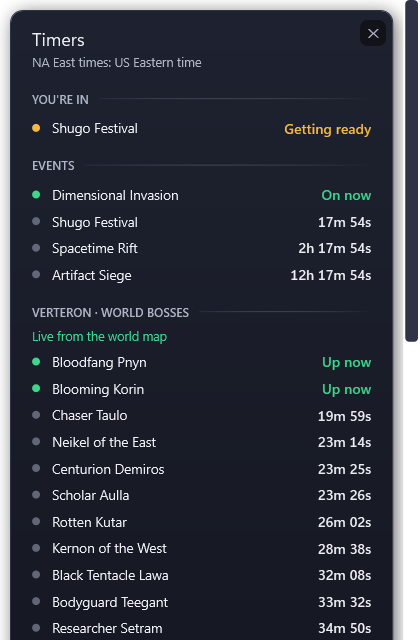
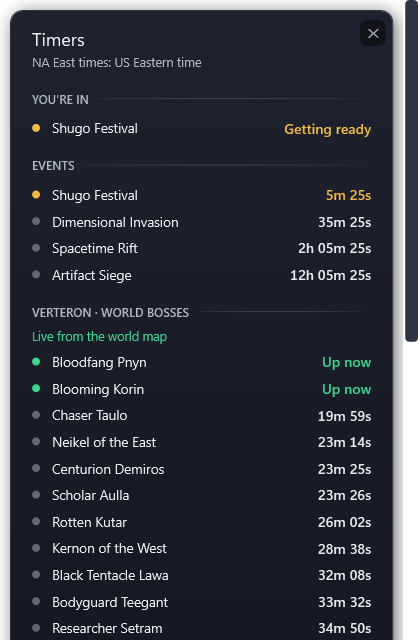
Tracker: one zone table for every timer; unchecked regions on their own local time; the Artifact Bosses Thursday and Saturday
AbyssBosses.ZoneFor reads EventTimers.ClockOf. NA East stays US Eastern (checked); NA West
US Pacific, Europe Paris, Latin America Brasília and Asia Korea are local-time guesses with
daylight saving, marked not checked. The Spacetime Rift runs from 02:00 in every region. The
three Artifact Bosses (Executor Kaira, Argo, Tamasa) are Thursday and Saturday since the Nov 4
patch, as it names them; Middle Reshanta's, which it doesn't name, stay Mon, Thu and Sat.

diff --git a/tracker/KinahLedger.Tracker/Session/EventTimers.cs b/tracker/KinahLedger.Tracker/Session/EventTimers.cs
@@ -34,25 +34,26 @@ public sealed class EventTimers
     /// </summary>
     public sealed record RegionClock(string Region, string Name, TimeZoneInfo Zone, bool Checked, string Note);
 
-    /// <summary>MetaBot's reading for every region (not checked in the game): one clock at UTC+9, no daylight saving.</summary>
+    /// <summary>The last resort when Windows has none of a region's zones: MetaBot's reading, UTC+9 with no daylight saving.</summary>
     static readonly TimeZoneInfo Utc9 = TimeZoneInfo.CreateCustomTimeZone("UTC+9", TimeSpan.FromHours(9), "UTC+9", "UTC+9");
 
     /// <summary>
     /// The clock of a region (Settings.Region: "na_e", "na_w", "eu", "latam", "asia"). NA East is US Eastern, checked
     /// 2026-11-14: the Abyss server's own next-siege time (Sat 21:00 ET), the chat's "A Spacetime Rift has appeared" at 11:00,
     /// 14:00 and 17:00 ET on 2026-11-13, and the field bosses on Steven's Lower Reshanta map (Watcher Kaira every 3 h from
-    /// 01:00 ET). The other regions are not checked: UTC+9, as before (Europe is likely Central
-    /// European time, but no reading tells it apart yet).
+    /// 01:00 ET). The other regions are not checked: each is taken as its own local time with its daylight saving (the
+    /// command center's call, 2026-11-14; Exitlag and PlayNews give the Rift at 02:00, 05:00 ... Paris time), marked so on the
+    /// card until a timer there is checked. The one table for every timer: the Abyss bosses (AbyssBosses.ZoneFor) read it too.
     /// </summary>
     public static RegionClock ClockOf(string? region) => region switch
     {
         // no region yet: NA East, Settings.Region's default
         null or "" or "na_e" => new("na_e", "NA East", Zone("Eastern Standard Time", "America/New_York") ?? Utc9, true, "US Eastern time"),
-        "na_w" => new("na_w", "NA West", Utc9, false, "UTC+9, not checked for NA West yet"),
-        "eu" => new("eu", "Europe", Utc9, false, "UTC+9, not checked for Europe yet"),
-        "latam" => new("latam", "Latin America", Utc9, false, "UTC+9, not checked for Latin America yet"),
-        "asia" => new("asia", "Asia", Utc9, false, "UTC+9, not checked for Asia yet"),
-        _ => new(region ?? "", "this region", Utc9, false, "UTC+9, not checked yet"),
+        "na_w" => new("na_w", "NA West", Zone("Pacific Standard Time", "America/Los_Angeles") ?? Utc9, false, "US Pacific time, not checked for NA West yet"),
+        "eu" => new("eu", "Europe", Zone("Romance Standard Time", "Europe/Paris") ?? Utc9, false, "Central European time, not checked for Europe yet"),
+        "latam" => new("latam", "Latin America", Zone("E. South America Standard Time", "America/Sao_Paulo") ?? Utc9, false, "Brasília time, not checked for Latin America yet"),
+        "asia" => new("asia", "Asia", Zone("Korea Standard Time", "Asia/Seoul") ?? Utc9, false, "Korea time, not checked for Asia yet"),
+        _ => new(region, "this region", Zone("Eastern Standard Time", "America/New_York") ?? Utc9, false, "US Eastern time, not checked for this region"),
     };
 
     static TimeZoneInfo? Zone(params string[] ids)
@@ -68,7 +69,7 @@ public sealed class EventTimers
     /// <summary>
     /// A recurring event in the region's wall-clock time: every <paramref name="EveryMinutes"/> from <paramref name="AtMinutes"/>
     /// past midnight, or once a day at <paramref name="AtMinutes"/> on <paramref name="Weekdays"/> (0 Sunday). OnMinutes: how
-    /// long it counts as on after its start. AtIn: a region whose first start of the day differs (NA East's Rift, 02:00).
+    /// long it counts as on after its start. AtIn: a region whose first start of the day differs (none since the Rift's 02:00 holds everywhere).
     /// </summary>
     public sealed record Recurring(string Name, string Every, int EveryMinutes, int AtMinutes, int[]? Weekdays, int OnMinutes, string Where, IReadOnlyDictionary<string, int>? AtIn = null)
     {
@@ -79,15 +80,15 @@ public sealed class EventTimers
     /// The schedule, as kinah-ledger-site data/events.json has it ("recurring"; keep the two in step). How long each counts as
     /// on: the Shugo Festival's rounds were over by :05 in the game's own messages (2026-11-13, 17:01 and 18:01); the
     /// Dimensional Invasion is a 3-minute lobby and up to 10 minutes of waves; the Artifact Siege a 10-minute warning, then the
-    /// cores; the Spacetime Rift's portal is given 10 minutes. The Rift in NA East: every 3 hours from 02:00 Eastern (the chat's
-    /// "A Spacetime Rift has appeared" at 11:00, 14:00, 17:00 ET on 2026-11-13; the same grid in summer time as aion2-data's
-    /// 00:00 UTC anchor of 2026-10-07), not from 00:00.
+    /// cores; the Spacetime Rift's portal is given 10 minutes. The Rift: every 3 hours from 02:00 local (NA East: the chat's
+    /// "A Spacetime Rift has appeared" at 11:00, 14:00, 17:00 ET on 2026-11-13, and aion2-data's 00:00 UTC anchor of
+    /// 2026-10-07 in summer time; Paris: PlayNews and Exitlag's 02:00, 05:00 ...), not from 00:00 as MetaBot has it.
     /// </summary>
     public static readonly Recurring[] Schedule =
     {
         new("Shugo Festival", "Every hour", 60, 0, null, 6, "Verteron and Altgard"),
         new("Dimensional Invasion", "Every hour at half past", 60, 30, null, 13, "Verteron and Altgard"),
-        new("Spacetime Rift", "Every 3 hours", 180, 0, null, 10, "One of ten zones", new Dictionary<string, int> { ["na_e"] = 120 }),
+        new("Spacetime Rift", "Every 3 hours", 180, 120, null, 10, "One of ten zones"),
         new("Artifact Siege", "Thu and Sat", 1440, 21 * 60, new[] { 4, 6 }, 20, "Chaotic Lower Reshanta"),   // twice a week since the Nov 4 patch
     };
 

diff --git a/tracker/KinahLedger.Tracker/Session/AbyssBosses.cs b/tracker/KinahLedger.Tracker/Session/AbyssBosses.cs
@@ -7,7 +7,8 @@ namespace KinahLedger.Session;
 ///
 /// The schedule's hours are the region's own wall clock. Steven's map of Chaotic Lower Reshanta on NA East (2026-11-14,
 /// 06:38 Eastern) matched it to the second: Watcher Kaira every 3 hours from 01:00 (21min 20s left, so 07:00), the three
-/// Executors Mon, Thu and Sat at 21:30 (14h 51min 20s), Guardian Lord Nahma, three spots, Sun and Fri at 21:00
+/// Executors at 21:30 (14h 51min 20s; the three Artifact Bosses are Thursday and Saturday since the Nov 4 patch, as the
+/// site has them; that Saturday reading fits Mon/Thu/Sat too, Monday 16 Nov settles it), Guardian Lord Nahma, three spots, Sun and Fri at 21:00
 /// (1d 14h 21min). NA East's clock is checked; the other regions' are taken as their own time zone until someone checks.
 /// Middle Reshanta's bosses are on the same schedule as MetaBot gives it, not checked on the map yet.
 /// </summary>
@@ -21,15 +22,18 @@ public static class AbyssBosses
     public sealed record Boss(string Name, string Place, string Map, string Every, int EveryMinutes, int AtMinutes, int[]? Weekdays, int Spots, bool Checked);
 
     public const string Lower = "Lower Reshanta", Middle = "Middle Reshanta";
-    static readonly int[] MonThuSat = { 1, 4, 6 }, SunFri = { 0, 5 };
+    // the three Artifact Bosses: Thursday and Saturday since the Nov 4 patch ("the schedules for the three Artifact Bosses
+    // (Executor Kaira, Executor Argo, and Executor Tamasa) will also be changed to twice a week"); Middle Reshanta's not named
+    // there, so still Monday, Thursday and Saturday (MetaBot and the site agree)
+    static readonly int[] ThuSat = { 4, 6 }, MonThuSat = { 1, 4, 6 }, SunFri = { 0, 5 };
 
     public static readonly Boss[] Schedule =
     {
         new("Watcher Kaira", "Black Fragments Area", Lower, "Every 3 hours", 180, 60, null, 1, true),
         new("Guardian Lord Nahma", "Reshanta's Root", Lower, "Sun and Fri", 1440, 21 * 60, SunFri, 3, true),
-        new("Executor Tamasa", "Reshanta's Root", Lower, "Mon, Thu and Sat", 1440, 21 * 60 + 30, MonThuSat, 1, true),
-        new("Executor Argo", "Siel's Heart", Lower, "Mon, Thu and Sat", 1440, 21 * 60 + 30, MonThuSat, 1, true),
-        new("Executor Kaira", "Branding Island", Lower, "Mon, Thu and Sat", 1440, 21 * 60 + 30, MonThuSat, 1, true),
+        new("Executor Tamasa", "Reshanta's Root", Lower, "Thu and Sat", 1440, 21 * 60 + 30, ThuSat, 1, true),
+        new("Executor Argo", "Siel's Heart", Lower, "Thu and Sat", 1440, 21 * 60 + 30, ThuSat, 1, true),
+        new("Executor Kaira", "Branding Island", Lower, "Thu and Sat", 1440, 21 * 60 + 30, ThuSat, 1, true),
         new("Enraged Guardian Lord Nahma", "Steel Titan's Grave", Middle, "Sun and Fri", 1440, 21 * 60, SunFri, 1, false),
         new("Executioner Dramos", "Corroded Heart", Middle, "Mon, Thu and Sat", 1440, 21 * 60 + 30, MonThuSat, 1, false),
         new("Turncoat Ducal", "Eroded Fragment Area", Middle, "Mon, Thu and Sat", 1440, 21 * 60 + 30, MonThuSat, 1, false),
@@ -39,21 +43,11 @@ public static class AbyssBosses
     /// <summary>A spawn counts as "Spawned" this long after its time: the map can't say when it is killed.</summary>
     public const int SpawnedMinutes = 30;
 
-    /// <summary>The region's clock (Windows time zone ids), and whether it was checked against the game's map.</summary>
+    /// <summary>The region's clock and whether it was checked: the one table every timer reads (EventTimers.ClockOf).</summary>
     public static (TimeZoneInfo Zone, bool Checked) ZoneFor(string? region)
     {
-        string id = region switch
-        {
-            "na_w" => "Pacific Standard Time",
-            "eu" => "W. Europe Standard Time",
-            "latam" => "E. South America Standard Time",
-            "asia" => "Korea Standard Time",
-            _ => "Eastern Standard Time",
-        };
-        TimeZoneInfo zone;
-        try { zone = TimeZoneInfo.FindSystemTimeZoneById(id); }
-        catch (Exception ex) when (ex is TimeZoneNotFoundException or InvalidTimeZoneException) { zone = TimeZoneInfo.CreateCustomTimeZone(id, TimeSpan.FromHours(-5), id, id); }
-        return (zone, region is null or "" or "na_e");
+        var c = EventTimers.ClockOf(region);
+        return (c.Zone, c.Checked);
     }
 
     /// <summary>A boss's row at a moment. SpawnPc: its spawn on this PC's clock (UTC); Spawned: its time passed under <see cref="SpawnedMinutes"/> ago.</summary>

diff --git a/tracker/KinahLedger.Tracker/Packets/PacketTests.cs b/tracker/KinahLedger.Tracker/Packets/PacketTests.cs
@@ -644,12 +644,13 @@ public static class PacketTests
         DateTime U(int mo, int d, int h, int mi = 0) => new(2026, mo, d, h, mi, 0, DateTimeKind.Utc);
         var naE = EventTimers.ClockOf("na_e"); var eu = EventTimers.ClockOf("eu");
         var rift = EventTimers.Schedule.First(r => r.Name == "Spacetime Rift"); var siege = EventTimers.Schedule.First(r => r.Name == "Artifact Siege");
-        // NA East on US Eastern time (checked 2026-11-14); the regions not checked yet keep MetaBot's UTC+9, as 0.10.84 counted
+        // NA East on US Eastern time (checked 2026-11-14); the regions not checked yet on their own local time (Europe: Paris)
         string na = All(server, "na_e"), other = All(server, "eu");
         Check(naE.Checked && !eu.Checked && na == "Shugo Festival in 31m 00s at 02:00:14.6Z | Dimensional Invasion in 1m 00s at 01:30:14.6Z | Spacetime Rift in 2h 31m 00s at 04:00:14.6Z | Artifact Siege in 1d 0h 31m at 02:00:14.6Z",
             $"event timers, NA East (US Eastern): {na} (the starts on this PC's clock, 14.6 s after the game's)");
-        Check(other == "Shugo Festival in 31m 00s at 02:00:14.6Z | Dimensional Invasion in 1m 00s at 01:30:14.6Z | Spacetime Rift in 1h 31m 00s at 03:00:14.6Z | Artifact Siege in 10h 31m 00s at 12:00:14.6Z",
-            $"...a region not checked yet (Europe) stays on UTC+9, marked so: {other}");
+        Check(other == "Shugo Festival in 31m 00s at 02:00:14.6Z | Dimensional Invasion in 1m 00s at 01:30:14.6Z | Spacetime Rift in 2h 31m 00s at 04:00:14.6Z | Artifact Siege in 18h 31m 00s at 20:00:14.6Z"
+            && eu.Note.Contains("not checked") && EventTimers.ClockOf("asia").Zone.BaseUtcOffset == TimeSpan.FromHours(9) && EventTimers.ClockOf("na_w").Zone.BaseUtcOffset == TimeSpan.FromHours(-8),
+            $"...a region not checked yet (Europe) on Central European time, marked so: {other}; NA West Pacific, Asia Korea");
         // the ground truth in NA East: the Abyss server's own next siege (sent Fri 17:15 ET: Sat 21:00 ET), the chat's Rift lines
         var (lastSiege, nextSiege) = EventTimers.Around(siege, U(11, 13, 22, 15), naE);
         Check(nextSiege == U(11, 15, 2) && lastSiege == U(11, 13, 2), $"...the Artifact Siege: next {nextSiege:ddd HH:mm}Z (the game's own message: Sat 21:00 ET = Sun 02:00Z), last {lastSiege:ddd HH:mm}Z (Thu 21:00 ET; it ended 21:16:51 ET)");
@@ -754,6 +755,10 @@ public static class PacketTests
         var kst = TimeZoneInfo.CreateCustomTimeZone("kst", TimeSpan.FromHours(9), "kst", "kst");
         var onKst = AbyssBosses.RowOf(AbyssBosses.Schedule.First(b => b.Name == "Executor Tamasa"), server, TimeSpan.Zero, kst).Left;
         Check(onKst != tamasa, $"...and not on UTC+9, which would say {onKst} for the Executors");
+        var afterSat = AbyssBosses.Around(AbyssBosses.Schedule.First(b => b.Name == "Executor Tamasa"), new DateTime(2026, 11, 15, 2, 45, 0, DateTimeKind.Utc), zone).Next;
+        Check(afterSat == new DateTime(2026, 11, 20, 2, 30, 0, DateTimeKind.Utc), $"...the Artifact Bosses twice a week since the Nov 4 patch: after Saturday's, Thursday 21:30 ET ({afterSat:ddd dd HH:mm}Z), not Monday");
+        var dramos = AbyssBosses.Around(AbyssBosses.Schedule.First(b => b.Name == "Executioner Dramos"), new DateTime(2026, 11, 15, 2, 45, 0, DateTimeKind.Utc), zone).Next;
+        Check(dramos == new DateTime(2026, 11, 17, 2, 30, 0, DateTimeKind.Utc), $"...Middle Reshanta's, which the patch didn't name, still Monday too ({dramos:ddd dd HH:mm}Z)");
         var spawned = AbyssBosses.RowOf(AbyssBosses.Schedule.First(b => b.Name == "Watcher Kaira"), server.AddMinutes(31.5), TimeSpan.Zero, zone);
         var after = AbyssBosses.RowOf(AbyssBosses.Schedule.First(b => b.Name == "Watcher Kaira"), server.AddMinutes(52), TimeSpan.Zero, zone);
         Check(spawned is { Spawned: true, When: "10 min ago" } && !after.Spawned && after.Left == new TimeSpan(2, 29, 20),
